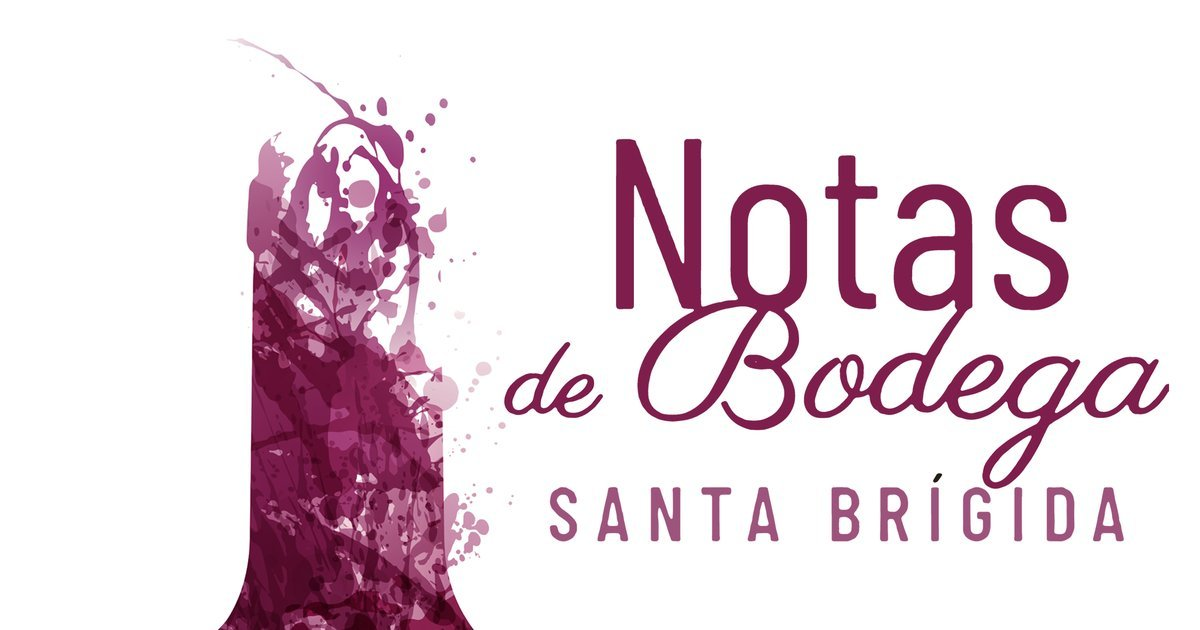
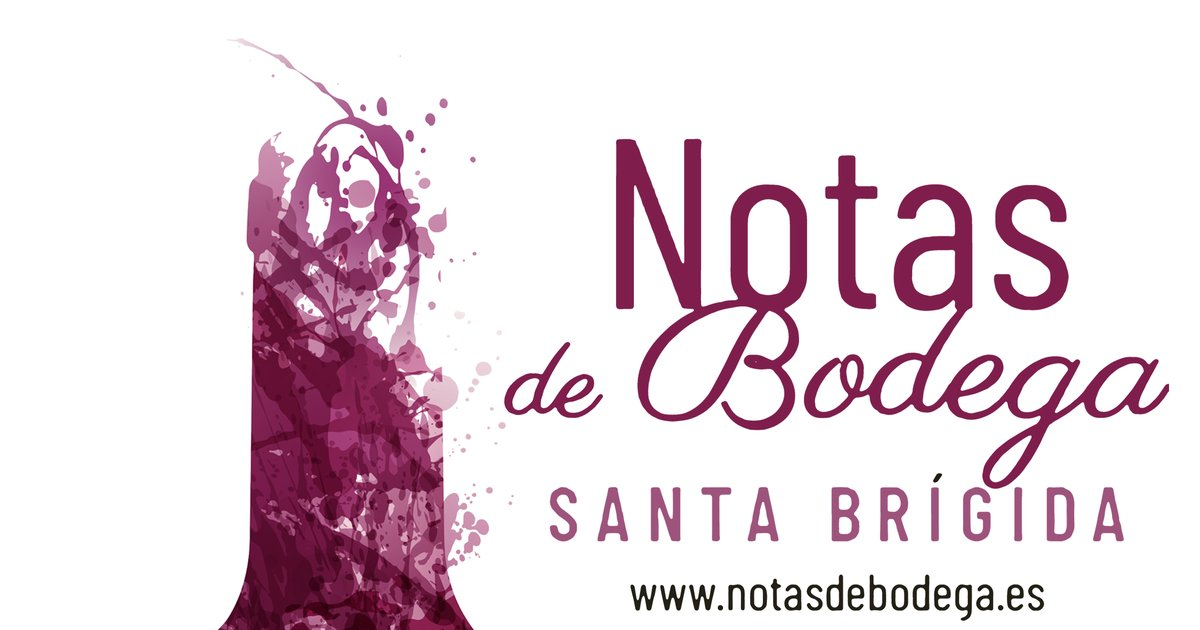
Dominio principal: notasdebodega.es
Claude-Session: https://claude.ai/code/session_012JoFCNSdTYrv6R9uhibMBf

Changed region(s): [[0.5242, 0.9048, 0.8942, 0.9952]]

diff --git a/index.html b/index.html
@@ -5,23 +5,23 @@
 <meta name="viewport" content="width=device-width, initial-scale=1">
 <title>Notas de Bodega · Música en directo y vinos D.O. Gran Canaria en Santa Brígida</title>
 <meta name="description" content="Conciertos íntimos y vinos de la D.O. Gran Canaria en restaurantes de medianías. Proyecto piloto en Santa Brígida para dinamizar la restauración local. Consulta las próximas fechas.">
-<link rel="canonical" href="https://notasdebodega.com/">
+<link rel="canonical" href="https://notasdebodega.es/">
 <meta name="theme-color" content="#7a1544">
 
 <meta property="og:type" content="website">
 <meta property="og:site_name" content="Notas de Bodega">
 <meta property="og:locale" content="es_ES">
-<meta property="og:url" content="https://notasdebodega.com/">
+<meta property="og:url" content="https://notasdebodega.es/">
 <meta property="og:title" content="Notas de Bodega · Música en directo y vinos D.O. Gran Canaria">
 <meta property="og:description" content="Conciertos íntimos y vinos de la D.O. Gran Canaria en restaurantes de medianías de Santa Brígida.">
-<meta property="og:image" content="https://notasdebodega.com/img/og-notas-de-bodega.jpg">
+<meta property="og:image" content="https://notasdebodega.es/img/og-notas-de-bodega.jpg">
 <meta property="og:image:width" content="1200">
 <meta property="og:image:height" content="630">
 <meta property="og:image:alt" content="Cartel de Notas de Bodega, Santa Brígida, con una botella de vino pintada en acuarela">
 <meta name="twitter:card" content="summary_large_image">
 <meta name="twitter:title" content="Notas de Bodega · Música en directo y vinos D.O. Gran Canaria">
 <meta name="twitter:description" content="Conciertos íntimos y vinos de la D.O. Gran Canaria en restaurantes de medianías de Santa Brígida.">
-<meta name="twitter:image" content="https://notasdebodega.com/img/og-notas-de-bodega.jpg">
+<meta name="twitter:image" content="https://notasdebodega.es/img/og-notas-de-bodega.jpg">
 
 <link rel="icon" href="/favicon.ico" sizes="48x48">
 <link rel="icon" href="/favicon.svg" type="image/svg+xml">
@@ -38,8 +38,8 @@
   "@context":"https://schema.org",
   "@type":"Organization",
   "name":"Notas de Bodega",
-  "url":"https://notasdebodega.com/",
-  "logo":"https://notasdebodega.com/icon-512.png",
+  "url":"https://notasdebodega.es/",
+  "logo":"https://notasdebodega.es/icon-512.png",
   "email":"dislateproducciones@gmail.com",
   "parentOrganization":{"@type":"Organization","name":"Dislate Producciones SL"}
 }

diff --git a/privacidad.html b/privacidad.html
@@ -4,9 +4,9 @@
 <meta charset="utf-8">
 <meta name="viewport" content="width=device-width, initial-scale=1">
 <title>Política de privacidad · Notas de Bodega</title>
-<meta name="description" content="Cómo trata Dislate Producciones SL los datos personales que nos envías a través de notasdebodega.com.">
+<meta name="description" content="Cómo trata Dislate Producciones SL los datos personales que nos envías a través de notasdebodega.es.">
 <meta name="robots" content="index, follow">
-<link rel="canonical" href="https://notasdebodega.com/privacidad.html">
+<link rel="canonical" href="https://notasdebodega.es/privacidad.html">
 <meta name="theme-color" content="#7a1544">
 <link rel="icon" href="/favicon.ico" sizes="48x48">
 <link rel="icon" href="/favicon.svg" type="image/svg+xml">
@@ -33,7 +33,7 @@
 <tr><th scope="row">Domicilio</th><td><span class="pendiente">[PENDIENTE: domicilio social]</span></td></tr>
 <tr><th scope="row">Email</th><td><a href="mailto:dislateproducciones@gmail.com">dislateproducciones@gmail.com</a></td></tr>
 <tr><th scope="row">Registro</th><td><span class="pendiente">[PENDIENTE: datos de inscripción en el Registro Mercantil de Las Palmas]</span></td></tr>
-<tr><th scope="row">Sitio web</th><td>notasdebodega.com</td></tr>
+<tr><th scope="row">Sitio web</th><td>notasdebodega.es</td></tr>
 </table>
 <h2>2. Qué datos tratamos</h2>
 <p>Solo los que nos envías tú a través del formulario de contacto o por email: nombre, apellidos, dirección de correo electrónico, asunto y el contenido de tu mensaje.</p>

diff --git a/aviso-legal.html b/aviso-legal.html
@@ -4,9 +4,9 @@
 <meta charset="utf-8">
 <meta name="viewport" content="width=device-width, initial-scale=1">
 <title>Aviso legal · Notas de Bodega</title>
-<meta name="description" content="Aviso legal de notasdebodega.com: datos del titular, Dislate Producciones SL, y condiciones de uso.">
+<meta name="description" content="Aviso legal de notasdebodega.es: datos del titular, Dislate Producciones SL, y condiciones de uso.">
 <meta name="robots" content="index, follow">
-<link rel="canonical" href="https://notasdebodega.com/aviso-legal.html">
+<link rel="canonical" href="https://notasdebodega.es/aviso-legal.html">
 <meta name="theme-color" content="#7a1544">
 <link rel="icon" href="/favicon.ico" sizes="48x48">
 <link rel="icon" href="/favicon.svg" type="image/svg+xml">
@@ -33,7 +33,7 @@
 <tr><th scope="row">Domicilio</th><td><span class="pendiente">[PENDIENTE: domicilio social]</span></td></tr>
 <tr><th scope="row">Email</th><td><a href="mailto:dislateproducciones@gmail.com">dislateproducciones@gmail.com</a></td></tr>
 <tr><th scope="row">Registro</th><td><span class="pendiente">[PENDIENTE: datos de inscripción en el Registro Mercantil de Las Palmas]</span></td></tr>
-<tr><th scope="row">Sitio web</th><td>notasdebodega.com</td></tr>
+<tr><th scope="row">Sitio web</th><td>notasdebodega.es</td></tr>
 </table>
 <h2>2. Objeto</h2>
 <p>Este sitio web informa sobre Notas de Bodega, un proyecto de música en directo y vinos de la D.O. Gran Canaria en restaurantes de medianías de Gran Canaria, y sobre sus fechas y artistas.</p>

diff --git a/js/main.js b/js/main.js
@@ -125,9 +125,9 @@
           "eventStatus": "https://schema.org/EventScheduled",
           "eventAttendanceMode": "https://schema.org/OfflineEventAttendanceMode",
           "location": { "@type": "Place", "name": ev.lugar, "address": (ev.zona || "") + ", Gran Canaria, España" },
-          "organizer": { "@type": "Organization", "name": "Dislate Producciones SL", "url": "https://notasdebodega.com/" }
+          "organizer": { "@type": "Organization", "name": "Dislate Producciones SL", "url": "https://notasdebodega.es/" }
         };
-        if (ev.cartel) obj.image = "https://notasdebodega.com" + ev.cartel + "-800.webp";
+        if (ev.cartel) obj.image = "https://notasdebodega.es" + ev.cartel + "-800.webp";
         if (ev.artista) obj.performer = { "@type": "Person", "name": ev.artista };
         return obj;
       });
@@ -255,7 +255,7 @@
           estado.textContent = "Espera un momento a que se complete la verificación antispam y vuelve a pulsar Enviar.";
           estado.className = "estado-envio ko"; return;
         }
-        datos.origen = "notasdebodega.com";
+        datos.origen = "notasdebodega.es";
         botonEnviar.disabled = true; botonEnviar.textContent = "Enviando…";
         fetch(endpoint, { method: "POST", headers: { "Content-Type": "application/json" }, body: JSON.stringify(datos) })
           .then(function (r) { if (!r.ok) throw new Error(r.status); })

diff --git a/cookies.html b/cookies.html
@@ -4,9 +4,9 @@
 <meta charset="utf-8">
 <meta name="viewport" content="width=device-width, initial-scale=1">
 <title>Política de cookies · Notas de Bodega</title>
-<meta name="description" content="Información sobre cookies en notasdebodega.com: esta web no usa cookies de seguimiento ni de publicidad.">
+<meta name="description" content="Información sobre cookies en notasdebodega.es: esta web no usa cookies de seguimiento ni de publicidad.">
 <meta name="robots" content="index, follow">
-<link rel="canonical" href="https://notasdebodega.com/cookies.html">
+<link rel="canonical" href="https://notasdebodega.es/cookies.html">
 <meta name="theme-color" content="#7a1544">
 <link rel="icon" href="/favicon.ico" sizes="48x48">
 <link rel="icon" href="/favicon.svg" type="image/svg+xml">

diff --git a/404.html b/404.html
@@ -4,7 +4,7 @@
 <meta charset="utf-8">
 <meta name="viewport" content="width=device-width, initial-scale=1">
 <title>Página no encontrada · Notas de Bodega</title>
-<meta name="description" content="La página que buscas no existe en notasdebodega.com.">
+<meta name="description" content="La página que buscas no existe en notasdebodega.es.">
 <meta name="robots" content="noindex">
 <meta name="theme-color" content="#7a1544">
 <link rel="icon" href="/favicon.ico" sizes="48x48">

diff --git a/README.md b/README.md
@@ -1,6 +1,6 @@
 # Notas de Bodega — web
 
-Web estática de **notasdebodega.com**. Proyecto de Dislate Producciones SL.
+Web estática de **notasdebodega.es**. Proyecto de Dislate Producciones SL.
 Se publica en Cloudflare (Workers con recursos estáticos) conectada a este repositorio: cada cambio en `main` se publica solo.
 
 ## Añadir o cambiar fechas
